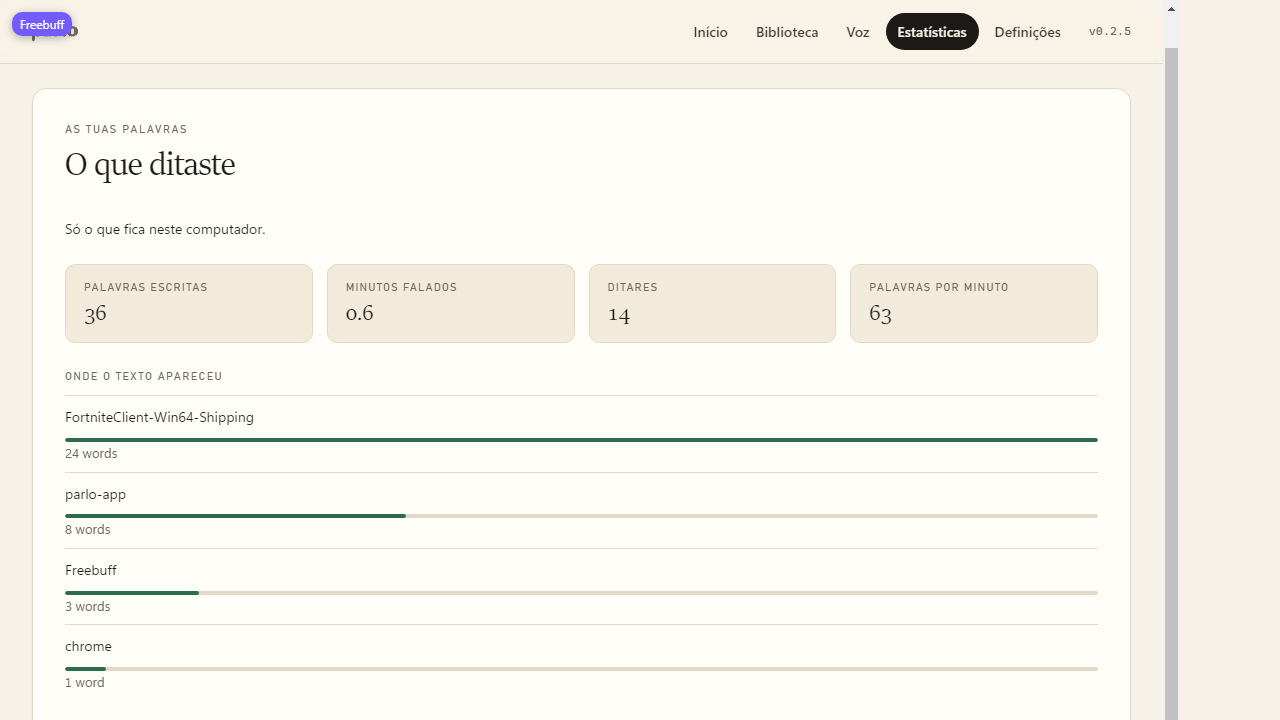
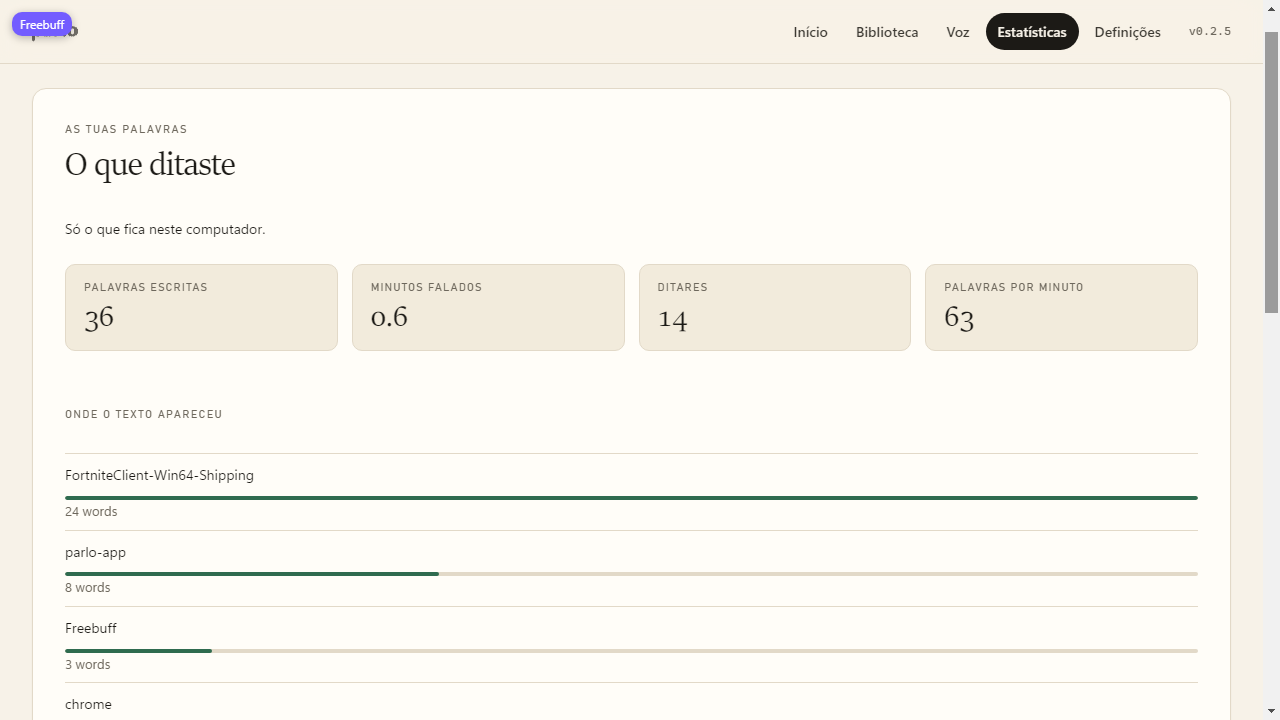
Give vocabulary its own pane and lead the catalog with rows
The catalog opened on a paragraph of missing downloads, vocabulary was
buried in dictation, and the statistics page buried four numbers under two
long tool cards. The sample snippets and their invented links are gone.

Generated with Codebuff 🤖

diff --git a/crates/parlo-cli/web/index.html b/crates/parlo-cli/web/index.html
@@ -307,20 +307,24 @@ try {
         <a class="home-link" href="#settings/dictation" data-i18n="insights.setup">Set up dictation</a>
       </div>
     </div>
-    <h3 class="meeting-group" data-i18n="insights.apps">Where the text landed</h3>
-    <ul class="insights-apps" id="insights-apps"></ul>
-    <h3 class="meeting-group" data-i18n="insights.topWords">Words you reach for</h3>
-    <ol class="insights-words" id="insights-top-words"></ol>
-    <h3 class="meeting-group" data-i18n="insights.weeks">The last four weeks</h3>
-    <div class="insights-days" id="insights-days" aria-hidden="true"></div>
-    <p class="settings-note" id="insights-days-note"></p>
-    <h3 class="meeting-group" data-i18n="text.Benchmark and memory">Benchmark and memory</h3>
-    <div class="tool-actions">
-      <button id="tools-bench" class="swap" type="button" data-i18n="text.Run the benchmark">Run the benchmark</button>
-      <button id="tools-soak" class="swap" type="button" data-i18n="text.Run a 20 second soak">Run a 20 second soak</button>
+    <div class="insights-bars" id="insights-bars">
+      <h3 class="meeting-group" data-i18n="insights.apps">Where the text landed</h3>
+      <ul class="insights-apps" id="insights-apps"></ul>
+      <h3 class="meeting-group" data-i18n="insights.topWords">Words you reach for</h3>
+      <ol class="insights-words" id="insights-top-words"></ol>
+      <h3 class="meeting-group" data-i18n="insights.weeks">The last four weeks</h3>
+      <div class="insights-days" id="insights-days" aria-hidden="true"></div>
+      <p class="settings-note" id="insights-days-note"></p>
     </div>
-    <p class="settings-note" id="tools-job-note" aria-live="polite"></p>
-    <div class="media-list" id="tools-job-list"></div>
+    <details class="insights-tools" id="insights-tools">
+      <summary data-i18n="text.Benchmark and memory">Benchmark and memory</summary>
+      <div class="tool-actions">
+        <button id="tools-bench" class="swap" type="button" data-i18n="text.Run the benchmark">Run the benchmark</button>
+        <button id="tools-soak" class="swap" type="button" data-i18n="text.Run a 20 second soak">Run a 20 second soak</button>
+      </div>
+      <p class="settings-note" id="tools-job-note" aria-live="polite"></p>
+      <div class="media-list" id="tools-job-list"></div>
+    </details>
   </section>
 
   <div class="settings-layout" id="settings-layout">
@@ -328,6 +332,7 @@ try {
     <button type="button" class="tab" role="tab" aria-selected="false" data-tab="you" data-i18n="settings.tabs.you">You</button>
     <button type="button" class="tab" role="tab" aria-selected="false" data-tab="languages" data-i18n="settings.tabs.languages">Languages</button>
     <button type="button" class="tab" role="tab" aria-selected="false" data-tab="dictation" data-i18n="settings.tabs.dictation">Dictation</button>
+    <button type="button" class="tab" role="tab" aria-selected="false" data-tab="vocabulary" data-i18n="settings.tabs.vocabulary">Vocabulary</button>
     <button type="button" class="tab" role="tab" aria-selected="false" data-tab="models" data-i18n="text.Models">Models</button>
     <button type="button" class="tab" role="tab" aria-selected="false" data-tab="shortcuts" data-i18n="settings.tabs.shortcuts">Shortcuts</button>
     <button type="button" class="tab" role="tab" aria-selected="false" data-tab="advanced" data-i18n="settings.tabs.advanced">Advanced</button>
@@ -585,13 +590,7 @@ try {
         <span class="field-label" data-i18n="text.What it should write">What it should write</span>
         <input id="vocabulary-right" class="field-input" type="text" maxlength="240" autocomplete="off" spellcheck="false" placeholder="Parlo">
       </label>
-      <div class="preset-row field-wide" role="group" aria-label="Snippet examples">
-        <button class="preset" type="button" data-wrong="my linkedin" data-right="https://www.linkedin.com/in/example" data-i18n="text.My LinkedIn">My LinkedIn</button>
-        <button class="preset" type="button" data-wrong="my channel" data-right="https://www.youtube.com/@example" data-i18n="text.My channel">My channel</button>
-        <button class="preset" type="button" data-wrong="my calendar" data-right="https://cal.com/example" data-i18n="text.My calendar">My calendar</button>
-        <button class="preset" type="button" data-wrong="my sign off" data-right="Best, {{name}}" data-i18n="text.My sign off">My sign off</button>
-      </div>
-      <p class="settings-note field-wide" id="vocabulary-hint">A snippet is a phrase that becomes a longer piece of text: say "my channel" and Parlo writes https://www.youtube.com/@example.</p>
+      <p class="settings-note field-wide" id="vocabulary-hint" data-i18n="vocabulary.hint">A snippet turns a short phrase into a longer piece of text, like your sign off.</p>
       <button id="vocabulary-add" class="install" type="button" data-i18n="text.Add">Add</button>
     </div>
     <dl class="status" id="vocabulary-list"></dl>
@@ -612,9 +611,9 @@ try {
 <section class="settings" id="models" aria-labelledby="models-title">
     <div class="models-head">
       <h2 id="models-title" data-i18n="text.Models">Models</h2>
-      <p class="models-note" id="models-note" aria-live="polite"></p>
     </div>
     <ul class="models-list" id="models-list"></ul>
+    <p class="models-note" id="models-note" aria-live="polite"></p>
     <div class="models-progress" id="models-progress" hidden>
       <div class="models-bar"><span id="models-fill"></span></div>
       <p class="models-progress-note" id="models-progress-note" aria-live="polite"></p>

diff --git a/crates/parlo-cli/web/app.js b/crates/parlo-cli/web/app.js
@@ -1268,7 +1268,7 @@ function describeModels(state) {
 
   if (!missing.length) {
     modelsDownloading = false;
-    modelsNote.textContent = "Every model this build offers is on this machine.";
+    modelsNote.textContent = "";
     modelsInstall.hidden = true;
     reflectFirstRun(false, dictationReady, false);
     return true;
@@ -1283,23 +1283,10 @@ function describeModels(state) {
     reflectFirstRun(false, dictationReady, true);
     return false;
   }
-  const byFeature = new Map();
-  for (const model of missing) {
-    const feature = t("text." + (model.feature || "A feature"), model.feature || "A feature");
-    if (!byFeature.has(feature)) {
-      byFeature.set(feature, []);
-    }
-    byFeature.get(feature).push(t("text." + model.name, model.name));
-  }
-  const joiner = " " + t("text.and", "and") + " ";
-  const sentences = Array.from(
-    byFeature,
-    ([feature, names]) =>
-      feature + " " + t("text.needs", "needs") + " " + names.join(joiner),
+  modelsNote.textContent = t(
+    "text.Some models are missing. They are a one time download and stay on this machine.",
+    "Some models are missing. They are a one time download and stay on this machine.",
   );
-  modelsNote.textContent = sentences.length
-    ? t("text.Missing: {items}. Each one downloads on its own.", "", { items: sentences.join("; ") })
-    : "Some models are missing. They are a one time download and stay on this machine.";
   modelsInstall.hidden = false;
   modelsDictation.hidden = !missing.some((model) => model.id === "parakeet");
   modelsInstall.disabled = modelsPolling;
@@ -4968,8 +4955,10 @@ function renderVocabulary(profile) {
     rows.push({ kind: "snippet", wrong, right });
   }
   if (!rows.length) {
-    vocabularyNote.textContent =
-      "Nothing here yet. A snippet is the quickest win: say \"my linkedin\" and Parlo writes your link.";
+    vocabularyNote.textContent = t(
+      "vocabulary.empty",
+      "Nothing here yet. Add a name Parlo keeps getting wrong, or a snippet that stands for a longer line.",
+    );
     return;
   }
   for (const row of rows) {
@@ -4988,8 +4977,9 @@ function renderVocabulary(profile) {
     detail.append(written, remove);
     vocabularyList.append(term, detail);
   }
-  const count = rows.length === 1 ? "1 entry kept" : rows.length + " entries kept";
-  vocabularyNote.textContent = count + " on this computer.";
+  vocabularyNote.textContent = t("vocabulary.count", "{count} on this computer.", {
+    count: rows.length,
+  });
 }
 
 async function loadVocabulary() {
@@ -6014,10 +6004,7 @@ function matchesHistory(entry) {
 function paintInsights() {
   const wordsEl = document.getElementById("insights-words");
   const empty = historyEntries.length === 0;
-  for (const node of document.querySelectorAll("#insights h3.meeting-group")) {
-    node.hidden = empty;
-  }
-  for (const id of ["insights-apps", "insights-top-words", "insights-days", "insights-days-note", "insights-empty"]) {
+  for (const id of ["insights-bars", "insights-empty"]) {
     const node = document.getElementById(id);
     if (node) {
       node.hidden = id === "insights-empty" ? !empty : empty;
@@ -6618,7 +6605,8 @@ for (const button of document.querySelectorAll("#library-tabs .tab")) {
 const SETTINGS_TABS = {
   you: ["you"],
   languages: ["languages"],
-  dictation: ["settings", "programs", "vocabulary"],
+  dictation: ["settings", "programs"],
+  vocabulary: ["vocabulary"],
   models: ["models", "catalog"],
   shortcuts: ["shortcuts"],
   advanced: ["intelligence", "provider", "privacy", "about"],
@@ -7956,21 +7944,6 @@ async function loadProfiles() {
 loadProfiles();
 paintSettingsName();
 paintStyleControls();
-
-document.addEventListener("click", (event) => {
-  const preset = event.target.closest(".preset");
-  if (!preset) {
-    return;
-  }
-  vocabularyKind.value = "snippet";
-  vocabularyKind.dispatchEvent(new Event("change"));
-  document.getElementById("vocabulary-wrong").value = preset.dataset.wrong;
-  document.getElementById("vocabulary-right").value = preset.dataset.right.replace(
-    "{{name}}",
-    storedName() || "Alex",
-  );
-  document.getElementById("vocabulary-right").focus();
-});
 
 const vocabularyHint = document.getElementById("vocabulary-hint");
 if (vocabularyHint) {

diff --git a/crates/parlo-cli/web/app.css b/crates/parlo-cli/web/app.css
@@ -296,7 +296,6 @@ footer p + p {
 .talk,
 .live,
 .catalog-tab,
-.preset,
 
 .tab {
   border-radius: var(--radius-sm);
@@ -436,25 +435,6 @@ select.field-input {
   height: 16px;
   margin: 2px 0 0;
   accent-color: var(--accent);
-}
-
-.preset-row {
-  display: flex;
-  flex-wrap: wrap;
-  gap: 8px;
-}
-
-.preset {
-  padding: 8px 12px;
-  border: 1px solid var(--line-strong);
-  background: transparent;
-  color: var(--ink-soft);
-  font-size: 13px;
-}
-
-.preset:hover {
-  background: var(--surface-sunken);
-  color: var(--ink);
 }
 
 .tabs {
@@ -1028,7 +1008,7 @@ select.field-input {
 .insights-numbers dd {
   margin: 6px 0 0;
   font-family: var(--font-display);
-  font-size: 24px;
+  font-size: 32px;
   line-height: 1;
   color: var(--ink);
 }
@@ -1125,6 +1105,35 @@ select.field-input {
 .models-note,
 .dub-note {
   margin: 24px 0 0;
+}
+
+.insights-bars {
+  display: grid;
+  gap: 20px;
+  margin-top: 30px;
+}
+
+.insights-tools {
+  margin-top: 34px;
+  padding-top: 18px;
+  border-top: 1px solid var(--line);
+}
+
+.insights-tools > summary {
+  cursor: pointer;
+  color: var(--muted);
+  font-family: var(--font-label);
+  font-size: 11px;
+  letter-spacing: 0.14em;
+  text-transform: uppercase;
+}
+
+.insights-tools[open] > summary {
+  color: var(--ink);
+}
+
+.insights-tools .tool-actions {
+  margin-top: 14px;
 }
 
 .insights-numbers {
@@ -1288,7 +1297,6 @@ select.field-input {
 .settings-row > .field-wide,
 .settings-row > .check,
 .settings-row > .settings-note,
-.settings-row > .preset-row,
 .settings-row > .meeting-actions,
 .settings-row > .settings-apply {
   grid-column: 1 / -1;

diff --git a/crates/parlo-cli/web/routes.js b/crates/parlo-cli/web/routes.js
@@ -7,7 +7,15 @@
 })(typeof globalThis === "object" ? globalThis : this, function () {
   const ROUTES = ["home", "library", "voice", "insights", "settings"];
   const LIBRARY_TABS = ["meetings", "files", "batch", "stories", "history"];
-  const SETTINGS_TABS = ["you", "languages", "dictation", "models", "shortcuts", "advanced"];
+  const SETTINGS_TABS = [
+    "you",
+    "languages",
+    "dictation",
+    "vocabulary",
+    "models",
+    "shortcuts",
+    "advanced",
+  ];
   const ALIASES = { meetings: "library/meetings" };
 
   function parseHash(hash) {

diff --git a/crates/parlo-cli/src/interface.rs b/crates/parlo-cli/src/interface.rs
@@ -141,6 +141,9 @@ mod tests {
                 );
             }
         }
-        assert_eq!(tabs, 6, "the app keeps six settings tabs: you, languages, dictation, models, shortcuts, advanced");
+        assert_eq!(
+            tabs, 7,
+            "the app keeps seven settings tabs: you, languages, dictation, vocabulary, models, shortcuts, advanced"
+        );
     }
 }
